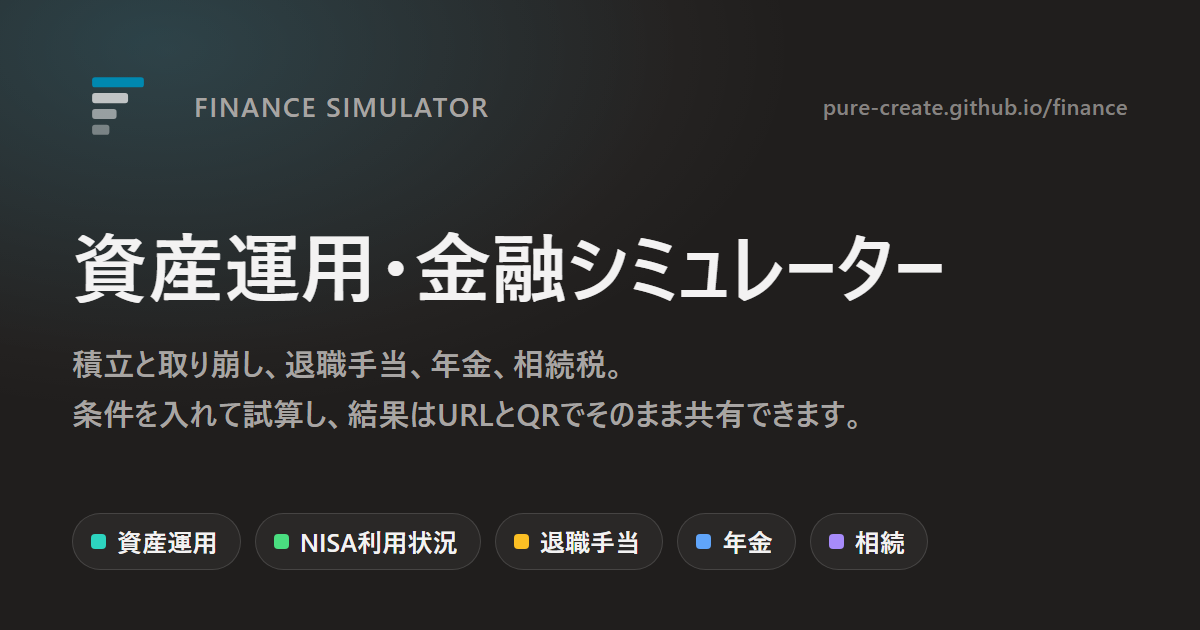
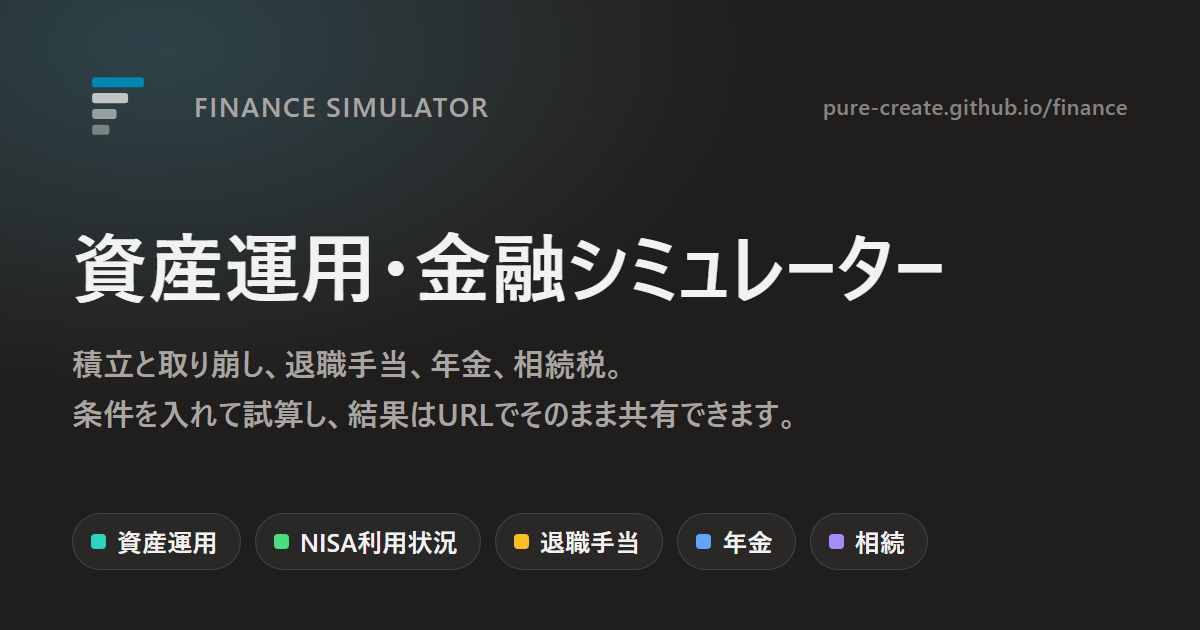
表に出る「QRコード」の語を外した
「QRコード」はデンソーウェーブの登録商標で、使うなら商標である旨の表示が要る。
断り書きを載せるほどの語でもないので、語のほうを引いた。共有の主体はURLで、
QRはそれを読み取りやすくするための添え物にすぎず、外しても説明は成り立つ。

・ プライバシーポリシー … 見出しを「試算結果の共有について」に縮め、
  「画面に表示されるQRコードも、同じURLを表したものです」の一文を削除した。
  URLに試算条件が入るという肝心の話は前の文が持っている
・ トップページの meta description と og:description … 「URLとQRコードで」を
  「URLで」に
・ OGP画像の版下（og/card.html）… 同じく「URLとQRで」を「URLで」に。
  og/site.png を版下から撮り直した

「二次元コード」への言い換えは採らなかった。ボタンにも画面にも語が出ておらず
（QRを入れる要素はすべて aria-hidden で、読み上げ用の文字も持たせていない）、
説明文の中でだけ別の名前を使うことになるため。

common/qrcode.js は手を入れていない。ライブラリの冒頭に商標表示があり、
残りの QR_EC や .share-qr はソースの中だけの名前で表には出ない。

撮り直しの確認: 同じ手順で ?v=asset を撮って既存の og/asset.png と突き合わせ、
バイト単位で一致することを確かめた。site.png の差は文言だけになっている。

Changed region(s): [[0.4008, 0.6333, 0.7092, 0.6937]]

diff --git a/index.html b/index.html
@@ -3,7 +3,7 @@
 <head>
 <meta charset="UTF-8">
 <meta name="viewport" content="width=device-width, initial-scale=1.0">
-<meta name="description" content="資産運用・NISA利用状況・公務員の退職手当・年金・相続税を試算できる無料シミュレーター集。計算はすべてブラウザ内で行い、試算結果はURLとQRコードでそのまま共有できます。">
+<meta name="description" content="資産運用・NISA利用状況・公務員の退職手当・年金・相続税を試算できる無料シミュレーター集。計算はすべてブラウザ内で行い、試算結果はURLでそのまま共有できます。">
 <!-- 共有時の見え方（OGP）とURLの正規化。SNSの巡回はJSを実行しないため各ページに直接書く。
      og:image はツール別の1枚。版下は og/card.html（?v= で版を切り替えて書き出す） -->
 <link rel="canonical" href="https://pure-create.github.io/finance/">
@@ -12,7 +12,7 @@
 <meta property="og:locale" content="ja_JP">
 <meta property="og:url" content="https://pure-create.github.io/finance/">
 <meta property="og:title" content="資産運用・金融シミュレーター">
-<meta property="og:description" content="資産運用・NISA利用状況・公務員の退職手当・年金・相続税を試算できる無料シミュレーター集。計算はすべてブラウザ内で行い、試算結果はURLとQRコードでそのまま共有できます。">
+<meta property="og:description" content="資産運用・NISA利用状況・公務員の退職手当・年金・相続税を試算できる無料シミュレーター集。計算はすべてブラウザ内で行い、試算結果はURLでそのまま共有できます。">
 <meta property="og:image" content="https://pure-create.github.io/finance/og/site.png">
 <meta property="og:image:width" content="1200">
 <meta property="og:image:height" content="630">

diff --git a/privacy/index.html b/privacy/index.html
@@ -121,8 +121,8 @@
       <li>入力内容と画面の設定（配色など）は、お使いのブラウザ内（ローカルストレージ）にのみ保存され、次に開いたときに前回の続きから始められるようにしています。ブラウザの保存データを消すと初期状態に戻ります。他の端末や他のブラウザへ引き継がれることはありません。</li>
     </ul>
 
-    <h2>試算結果の共有（URL・QRコード）について</h2>
-    <p>「試算結果を共有」で作られるURLには、<strong>そのときの試算条件がURLの一部として含まれます</strong>。画面に表示されるQRコードも、同じURLを表したものです。</p>
+    <h2>試算結果の共有について</h2>
+    <p>「試算結果を共有」で作られるURLには、<strong>そのときの試算条件がURLの一部として含まれます</strong>。</p>
     <ul>
       <li>そのURLを第三者にお渡しになると、URLを知った方は同じ条件の試算を開き、入力された内容を確認できます。お渡しになる相手にご注意ください。</li>
       <li>共有用のURLを開いたときは、URLに含まれる試算条件も通信に乗り、下記のアクセス解析にも記録されます。入力している間に送信されることはありません（試算条件がURLに入るのは、共有の操作をしたときだけです）。</li>

diff --git a/og/card.html b/og/card.html
@@ -222,7 +222,7 @@ var VARIANTS = {
 	site: {
 		site:  'FINANCE SIMULATOR',
 		title: '資産運用・金融シミュレーター',
-		lead:  '積立と取り崩し、退職手当、年金、相続税。<br>条件を入れて試算し、結果はURLとQRでそのまま共有できます。',
+		lead:  '積立と取り崩し、退職手当、年金、相続税。<br>条件を入れて試算し、結果はURLでそのまま共有できます。',
 		tags:  [['資産運用', 'asset'], ['NISA利用状況', 'nisa'], ['退職手当', 'retirement'],
 		        ['年金', 'pension'], ['相続', 'inheritance']]
 	},
